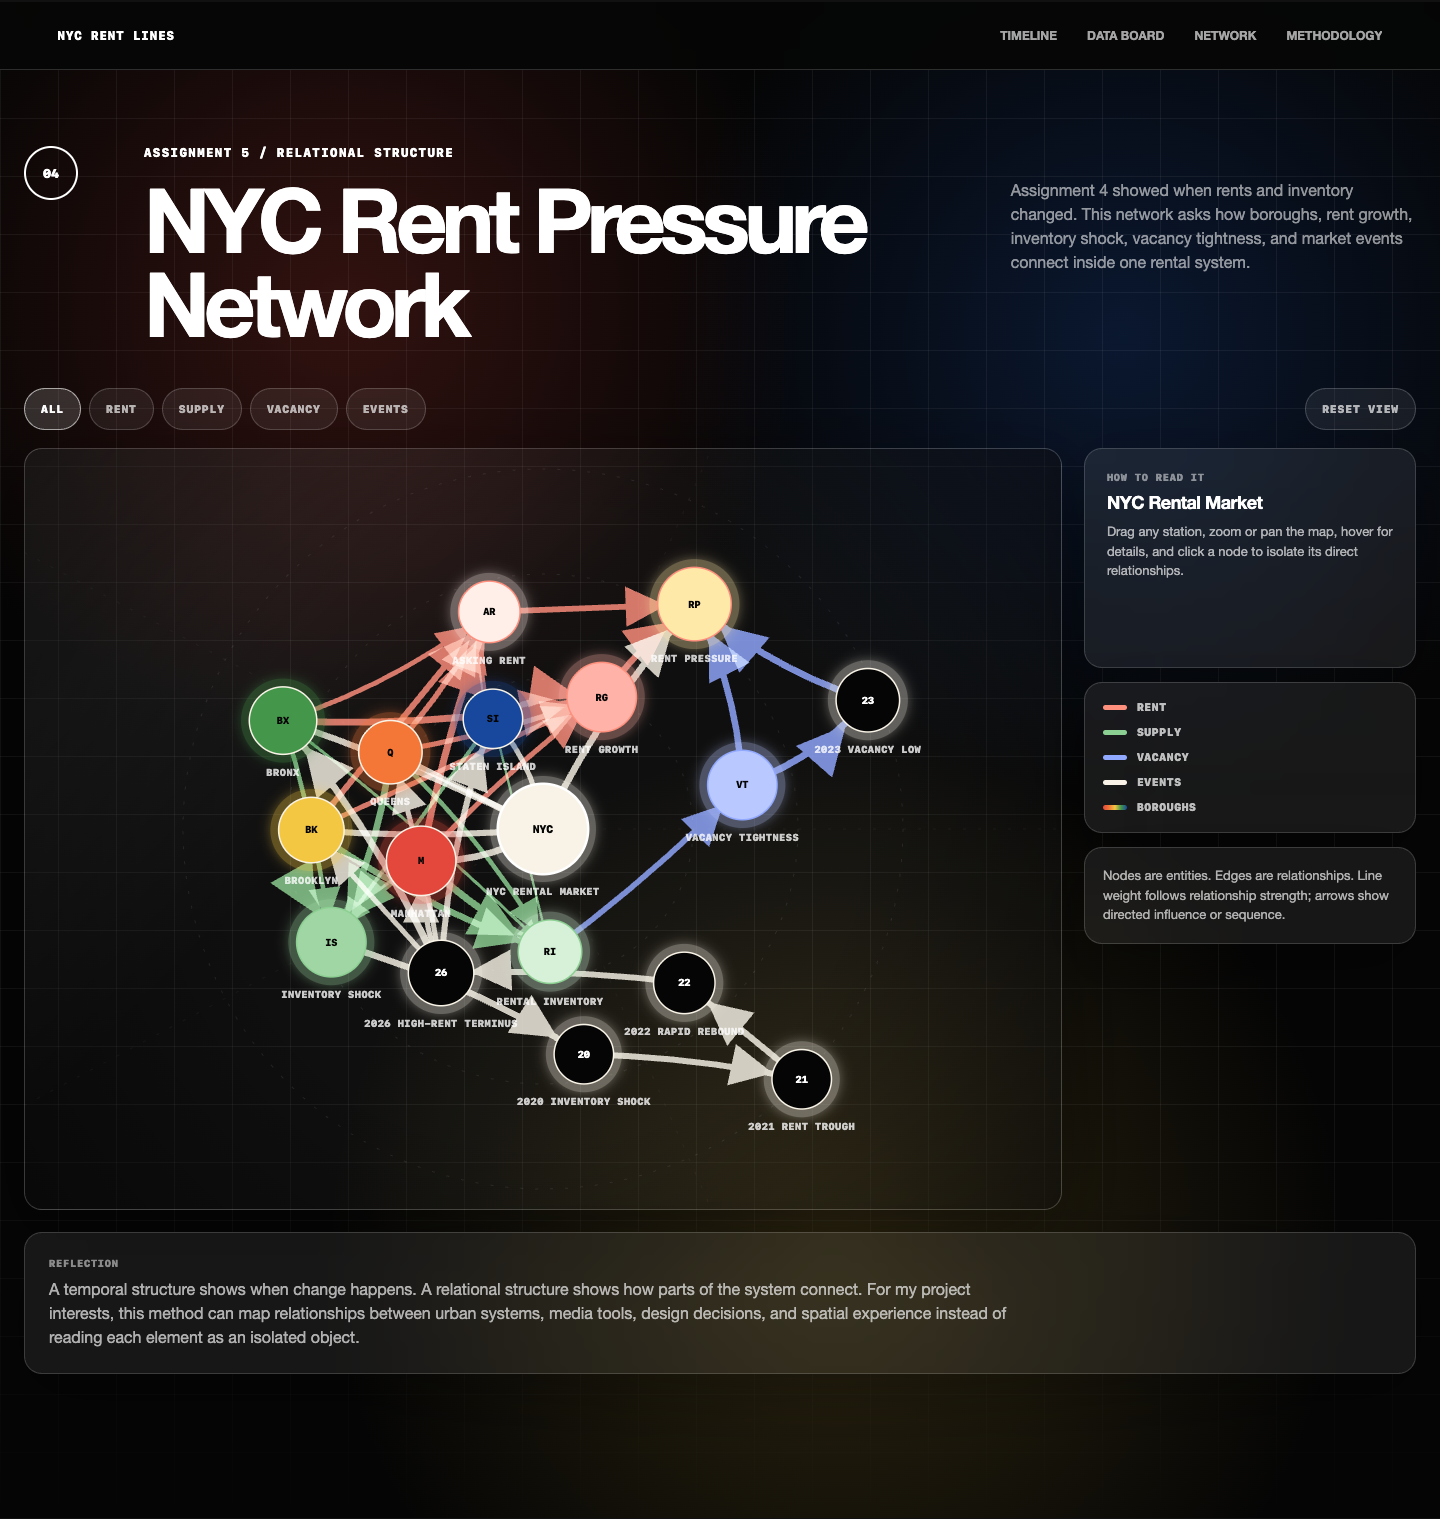
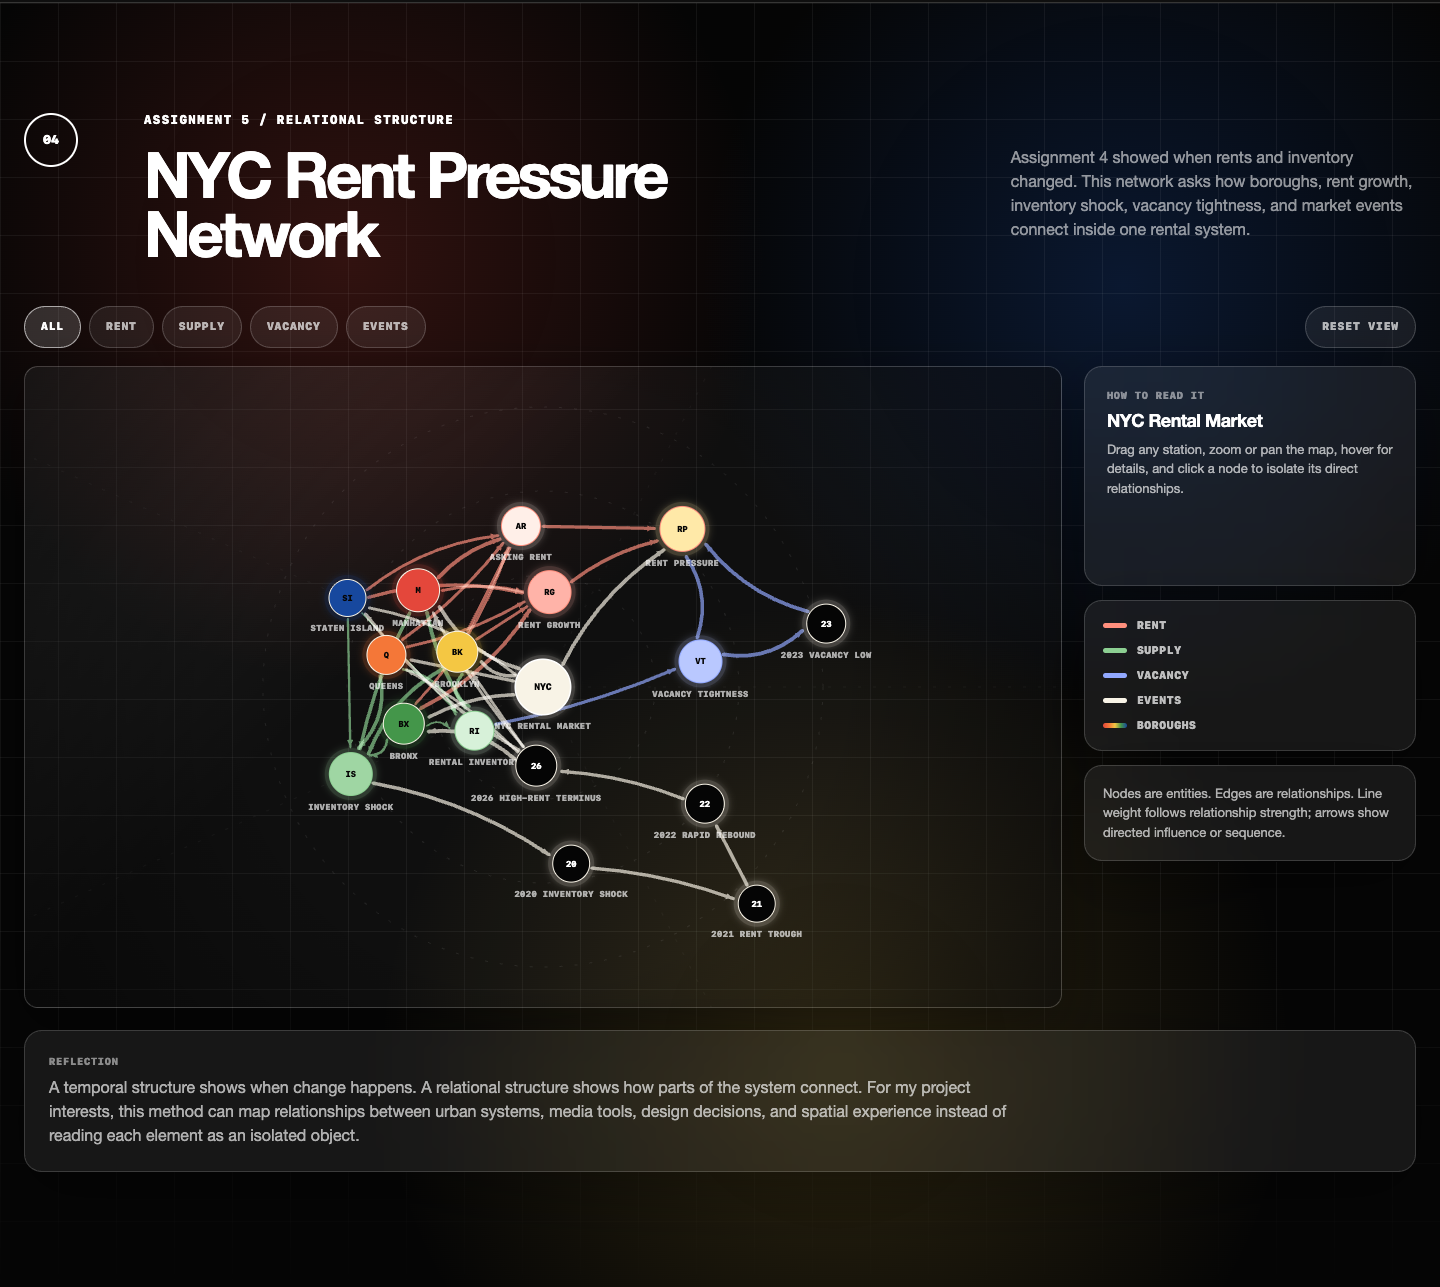
Refine Assignment 5 network proportions

diff --git a/assignment5-network.js b/assignment5-network.js
@@ -51,6 +51,10 @@
     Events: "#f8f3e6"
   };
 
+  function radiusFromSize(size) {
+    return Math.max(12, Math.round(size * 0.62));
+  }
+
   let allNodes = [];
   let allLinks = [];
   let simulation = null;
@@ -71,7 +75,7 @@
       value: +row.age,
       department: row.department,
       connections: +row.friends,
-      radius: +row.size,
+      radius: radiusFromSize(+row.size),
       color: row.color
     })),
     d3.csv("data/assignment5-edges.csv", (row, index) => ({
@@ -115,7 +119,7 @@
 
     const width = Math.max(340, shell.clientWidth || 980);
     const compact = width < 720;
-    const height = compact ? 680 : 760;
+    const height = compact ? 600 : 640;
     const { nodes, links } = cloneData();
 
     seedPositions(nodes, width, height, compact);
@@ -139,14 +143,15 @@
     Object.entries(categoryColors).forEach(([category, color]) => {
       defs.append("marker")
         .attr("id", `arrow-${category.toLowerCase()}`)
-        .attr("viewBox", "0 -5 10 10")
-        .attr("refX", 17)
+        .attr("viewBox", "0 -4 8 8")
+        .attr("refX", 7.2)
         .attr("refY", 0)
-        .attr("markerWidth", 7)
-        .attr("markerHeight", 7)
+        .attr("markerWidth", 8)
+        .attr("markerHeight", 8)
+        .attr("markerUnits", "userSpaceOnUse")
         .attr("orient", "auto")
         .append("path")
-        .attr("d", "M0,-5L10,0L0,5")
+        .attr("d", "M0,-3L7,0L0,3")
         .attr("fill", color);
     });
 
@@ -157,7 +162,7 @@
       .attr("width", "260%")
       .attr("height", "260%");
     glow.append("feGaussianBlur")
-      .attr("stdDeviation", "6")
+      .attr("stdDeviation", "3.5")
       .attr("result", "blur");
     glow.append("feMerge")
       .selectAll("feMergeNode")
@@ -191,7 +196,7 @@
       .join("path")
       .attr("class", "network-link")
       .attr("stroke", (d) => categoryColors[d.department] || "#ffffff")
-      .attr("stroke-width", (d) => 1.1 + d.strength * 6)
+      .attr("stroke-width", (d) => 0.75 + d.strength * 3.2)
       .attr("marker-end", (d) => d.type === "directed" ? `url(#arrow-${d.department.toLowerCase()})` : null)
       .on("pointerenter", (event, d) => showLinkTooltip(event, d))
       .on("pointermove", moveTooltip)
@@ -222,7 +227,7 @@
 
     node.append("circle")
       .attr("class", "node-halo")
-      .attr("r", (d) => d.radius + 9)
+      .attr("r", (d) => d.radius + 5)
       .attr("fill", (d) => d.color)
       .attr("filter", "url(#network-glow)");
 
@@ -241,19 +246,19 @@
     node.append("text")
       .attr("class", "node-label")
       .attr("text-anchor", "middle")
-      .attr("dy", (d) => d.radius + 22)
+      .attr("dy", (d) => d.radius + 15)
       .text((d) => d.name);
 
     simulation = d3.forceSimulation(nodes)
       .force("link", d3.forceLink(links)
         .id((d) => d.id)
-        .distance((d) => compact ? 96 + d.strength * 26 : 126 + d.strength * 38)
-        .strength((d) => 0.18 + d.strength * 0.28))
-      .force("charge", d3.forceManyBody().strength((d) => d.role === "system" ? -900 : -420))
+        .distance((d) => compact ? 82 + d.strength * 18 : 104 + d.strength * 26)
+        .strength((d) => 0.16 + d.strength * 0.24))
+      .force("charge", d3.forceManyBody().strength((d) => d.role === "system" ? -580 : -290))
       .force("center", d3.forceCenter(width / 2, height / 2))
       .force("x", d3.forceX((d) => anchor(d, width, height, compact).x).strength(0.075))
       .force("y", d3.forceY((d) => anchor(d, width, height, compact).y).strength(0.08))
-      .force("collision", d3.forceCollide((d) => d.radius + (compact ? 18 : 24)))
+      .force("collision", d3.forceCollide((d) => d.radius + (compact ? 12 : 16)))
       .on("tick", ticked);
 
     simulation.tick(compact ? 90 : 130);
@@ -327,19 +332,19 @@
     });
 
     boroughs.forEach((d, i) => {
-      const point = ringPoint(width * (compact ? 0.5 : 0.28), height * (compact ? 0.38 : 0.52), compact ? 165 : 210, i, boroughs.length, -Math.PI / 2);
+      const point = ringPoint(width * (compact ? 0.5 : 0.29), height * (compact ? 0.38 : 0.52), compact ? 135 : 170, i, boroughs.length, -Math.PI / 2);
       d.x = point.x;
       d.y = point.y;
     });
 
     metrics.forEach((d, i) => {
-      const point = ringPoint(width * (compact ? 0.5 : 0.67), height * (compact ? 0.5 : 0.36), compact ? 180 : 190, i, metrics.length, Math.PI * 0.12);
+      const point = ringPoint(width * (compact ? 0.5 : 0.66), height * (compact ? 0.5 : 0.36), compact ? 145 : 155, i, metrics.length, Math.PI * 0.12);
       d.x = point.x;
       d.y = point.y;
     });
 
     events.forEach((d, i) => {
-      const point = ringPoint(width * (compact ? 0.5 : 0.68), height * (compact ? 0.58 : 0.66), compact ? 190 : 210, i, events.length, Math.PI * 0.35);
+      const point = ringPoint(width * (compact ? 0.5 : 0.68), height * (compact ? 0.58 : 0.66), compact ? 150 : 165, i, events.length, Math.PI * 0.35);
       d.x = point.x;
       d.y = point.y;
     });
@@ -372,7 +377,7 @@
   function drawFrame(frame, width, height, compact) {
     const cx = width / 2;
     const cy = height / 2;
-    const rings = compact ? [120, 210, 300] : [150, 255, 360];
+    const rings = compact ? [96, 168, 242] : [112, 196, 280];
     frame.selectAll("circle")
       .data(rings)
       .join("circle")
@@ -398,13 +403,15 @@
   }
 
   function linkPath(d) {
-    const sx = d.source.x;
-    const sy = d.source.y;
-    const tx = d.target.x;
-    const ty = d.target.y;
-    const dx = tx - sx;
-    const dy = ty - sy;
+    const dx = d.target.x - d.source.x;
+    const dy = d.target.y - d.source.y;
     const len = Math.max(1, Math.hypot(dx, dy));
+    const ux = dx / len;
+    const uy = dy / len;
+    const sx = d.source.x + ux * (d.source.radius + 3);
+    const sy = d.source.y + uy * (d.source.radius + 3);
+    const tx = d.target.x - ux * (d.target.radius + 6);
+    const ty = d.target.y - uy * (d.target.radius + 6);
     const nx = -dy / len;
     const ny = dx / len;
     const mx = (sx + tx) / 2 + nx * d.curve;

diff --git a/assignment5.css b/assignment5.css
@@ -1,6 +1,7 @@
 .network-section {
   position: relative;
   overflow: hidden;
+  scroll-margin-top: var(--header-height);
   border-top: 2px solid var(--ink);
   background:
     radial-gradient(circle at 24% 20%, rgba(228, 71, 59, 0.2), transparent 28%),
@@ -25,6 +26,14 @@
 .network-pad {
   position: relative;
   z-index: 1;
+  padding-top: clamp(68px, 8vw, 110px);
+  padding-bottom: clamp(72px, 8vw, 118px);
+}
+
+.network-section .section-heading h2 {
+  max-width: 720px;
+  font-size: clamp(34px, 4.4vw, 64px);
+  letter-spacing: -0.055em;
 }
 
 .network-toolbar {
@@ -83,13 +92,13 @@
 .network-shell {
   position: relative;
   overflow: hidden;
-  min-height: 680px;
+  min-height: 600px;
   border: 1px solid rgba(255, 255, 255, 0.18);
-  border-radius: 18px;
+  border-radius: 14px;
   background:
     linear-gradient(135deg, rgba(255, 255, 255, 0.08), transparent 38%),
     rgba(255, 255, 255, 0.04);
-  box-shadow: 0 26px 80px rgba(0, 0, 0, 0.34);
+  box-shadow: 0 18px 54px rgba(0, 0, 0, 0.28);
 }
 
 .network-shell::after {
@@ -129,7 +138,7 @@
   z-index: 1;
   display: block;
   width: 100%;
-  min-height: 680px;
+  min-height: 600px;
   cursor: grab;
 }
 
@@ -157,19 +166,19 @@
   fill: none;
   stroke-linecap: round;
   stroke-linejoin: round;
-  opacity: 0.42;
+  opacity: 0.34;
   mix-blend-mode: screen;
   transition: opacity 180ms ease, stroke-width 180ms ease;
   vector-effect: non-scaling-stroke;
 }
 
 .network-link.is-active {
-  opacity: 0.82;
+  opacity: 0.68;
 }
 
 .network-link.is-muted,
 .network-link.is-filtered-out {
-  opacity: 0.08;
+  opacity: 0.045;
 }
 
 .network-node {
@@ -182,26 +191,26 @@
 }
 
 .node-halo {
-  opacity: 0.18;
+  opacity: 0.1;
 }
 
 .node-core {
-  stroke-width: 3;
+  stroke-width: 2;
   paint-order: stroke;
 }
 
 .node-badge {
   fill: #050505;
   font-family: var(--mono);
-  font-size: 10px;
+  font-size: 8.5px;
   font-weight: 950;
   pointer-events: none;
 }
 
 .node-label {
-  fill: rgba(255, 255, 255, 0.78);
+  fill: rgba(255, 255, 255, 0.66);
   font-family: var(--mono);
-  font-size: 10px;
+  font-size: 8.5px;
   font-weight: 850;
   letter-spacing: 0.05em;
   pointer-events: none;
@@ -210,11 +219,11 @@
 
 .node-system .node-core {
   stroke: #ffffff;
-  stroke-width: 5;
+  stroke-width: 3;
 }
 
 .node-system .node-badge {
-  font-size: 11px;
+  font-size: 9.5px;
 }
 
 .node-event .node-core {
@@ -227,11 +236,11 @@
 
 .network-node.is-muted,
 .network-node.is-filtered-out {
-  opacity: 0.2;
+  opacity: 0.16;
 }
 
 .network-node.is-active .node-halo {
-  opacity: 0.36;
+  opacity: 0.22;
 }
 
 .network-tooltip {
@@ -401,7 +410,7 @@
 
   .network-shell,
   #pressure-network {
-    min-height: 640px;
+    min-height: 580px;
   }
 
   .network-side {
@@ -432,11 +441,11 @@
 
   .network-shell,
   #pressure-network {
-    min-height: 620px;
+    min-height: 560px;
   }
 
   .node-label {
-    font-size: 8px;
+    font-size: 7.5px;
   }
 
   .network-reflection {

diff --git a/assignment4.html b/assignment4.html
@@ -8,7 +8,7 @@
   <title>NYC Rent Lines — A Decade of Asking Rents</title>
   <link rel="icon" href="data:,">
     <link rel="stylesheet" href="assignment4.css?v=20260719-relational-1">
-    <link rel="stylesheet" href="assignment5.css?v=20260719-relational-1">
+    <link rel="stylesheet" href="assignment5.css?v=20260719-relational-2">
   <script src="https://cdn.jsdelivr.net/npm/d3@7"></script>
 </head>
 
@@ -406,7 +406,7 @@
   </main>
 
   <script src="assignment4.js?v=20260713-rent-only-2"></script>
-  <script src="assignment5-network.js?v=20260719-relational-1"></script>
+  <script src="assignment5-network.js?v=20260719-relational-2"></script>
 </body>
 
 </html>